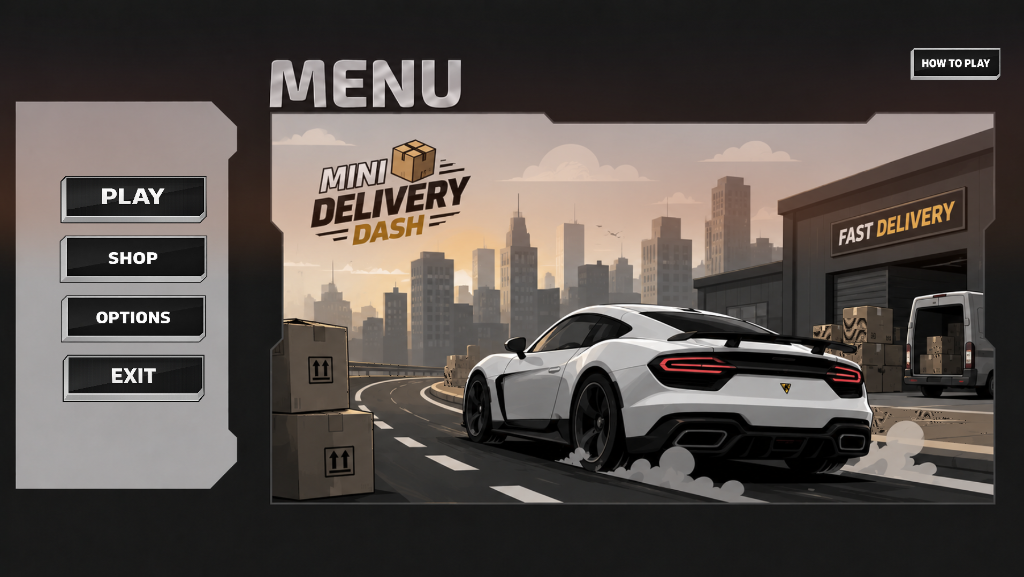
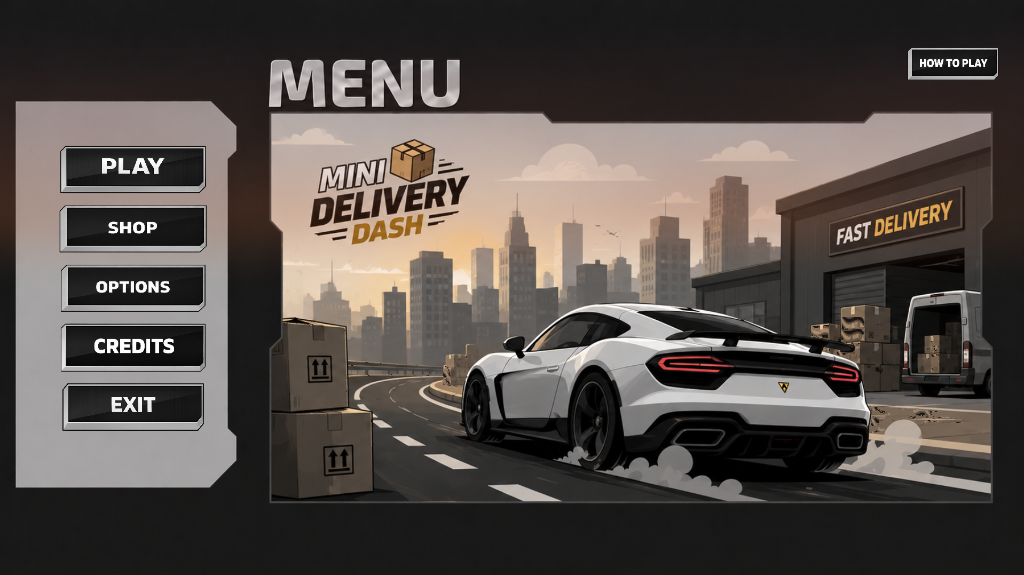
docs: update project screenshots in README
- Replaced placeholder image with actual in-game screenshot.
- Updated main menu, how to play, and shop interface screenshots to reflect the latest UI changes.

diff --git a/README.md b/README.md
@@ -96,7 +96,7 @@ Follow these step-by-step instructions to compile and play the game on your loca
 ![How To Play](docs/how_to_play.png)
 
 ### In-Game Delivery
-![In-Game Placeholder](https://via.placeholder.com/800x450.png?text=Add+Gameplay+Screenshot+Here)
+![In-Game Screenshot](docs/gameplay.png)
 
 ### Shop Interface
 ![Shop Interface](docs/shop_ui.png)
